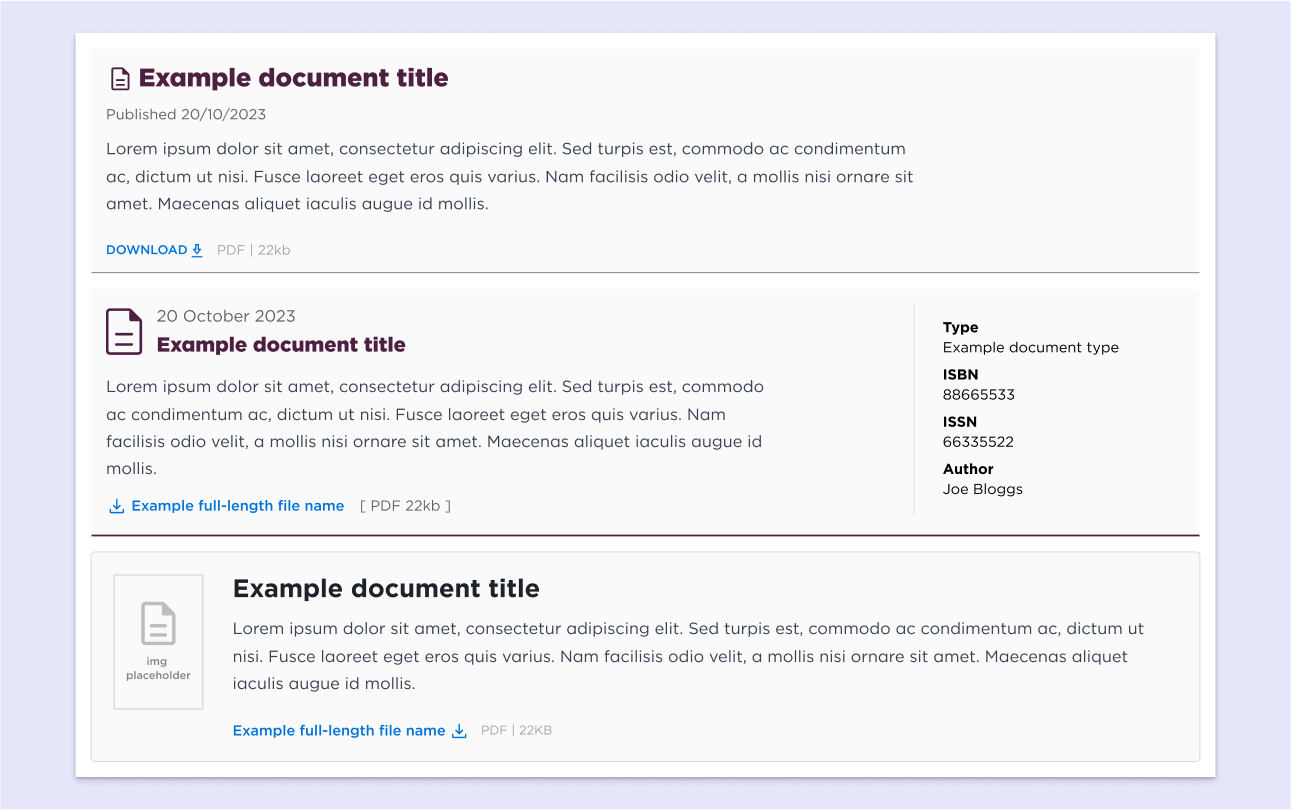
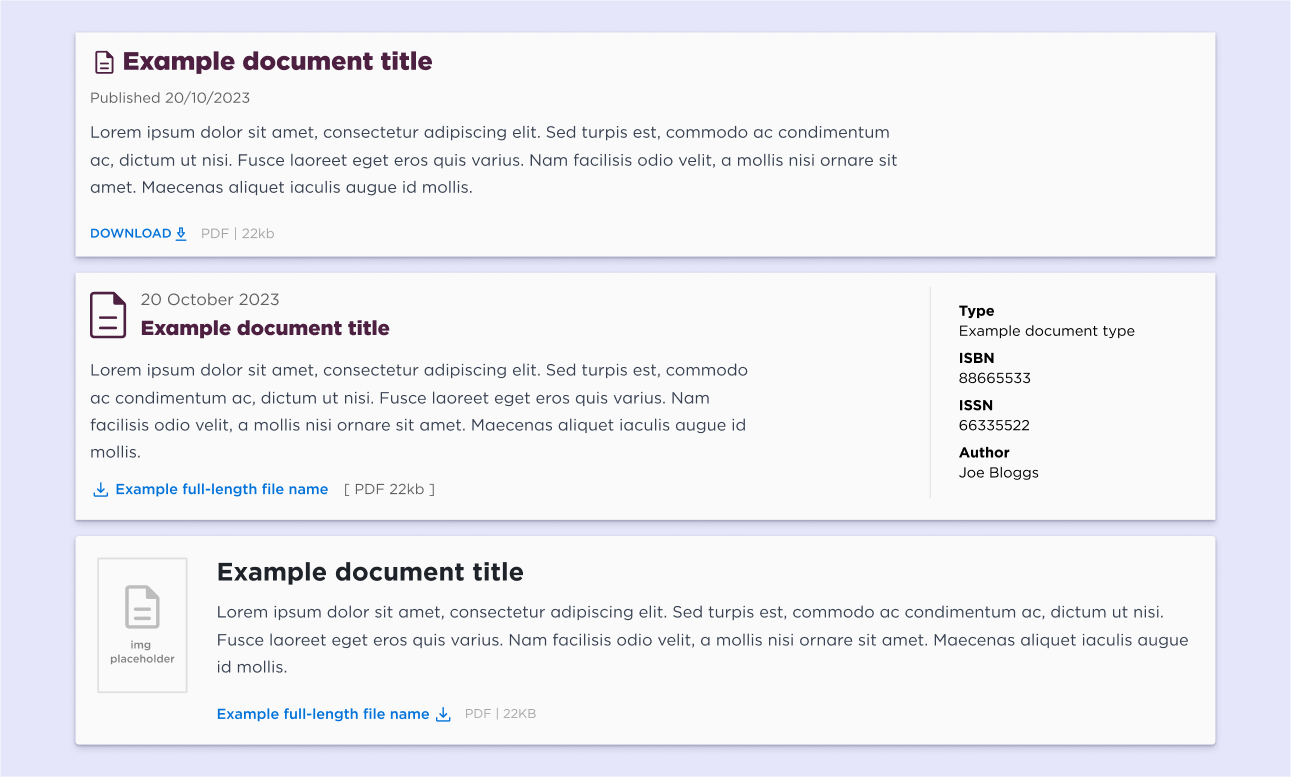
updated search story images

diff --git a/project-search.html b/project-search.html
@@ -316,12 +316,28 @@
                   design iterations for search results
                 </div>
                 <img
+                  class="project-article__img-block-image img--large"
+                  src="img/case-study-SEARCH-003A.png"
+                  alt="Design mockup of an online form that allows users to submit a PDF notification to WorkSafe"
+                />
+                <div class="project-article__img-block-caption">
+                  Search page design concept
+                </div>
+                <img
                   class="project-article__img-block-image"
                   src="img/case-study-SEARCH-004.png"
                   alt="Design mockup of an online form that allows users to submit a PDF notification to WorkSafe"
                 />
                 <div class="project-article__img-block-caption">
-                  design iterations for DOC search results
+                  design iterations for document search results
+                </div>
+                <img
+                  class="project-article__img-block-image img--large"
+                  src="img/case-study-SEARCH-004A.png"
+                  alt="Design mockup of an online form that allows users to submit a PDF notification to WorkSafe"
+                />
+                <div class="project-article__img-block-caption">
+                  Document search page design concept
                 </div>
               </div>
               <p class="project-article__paragraph">
